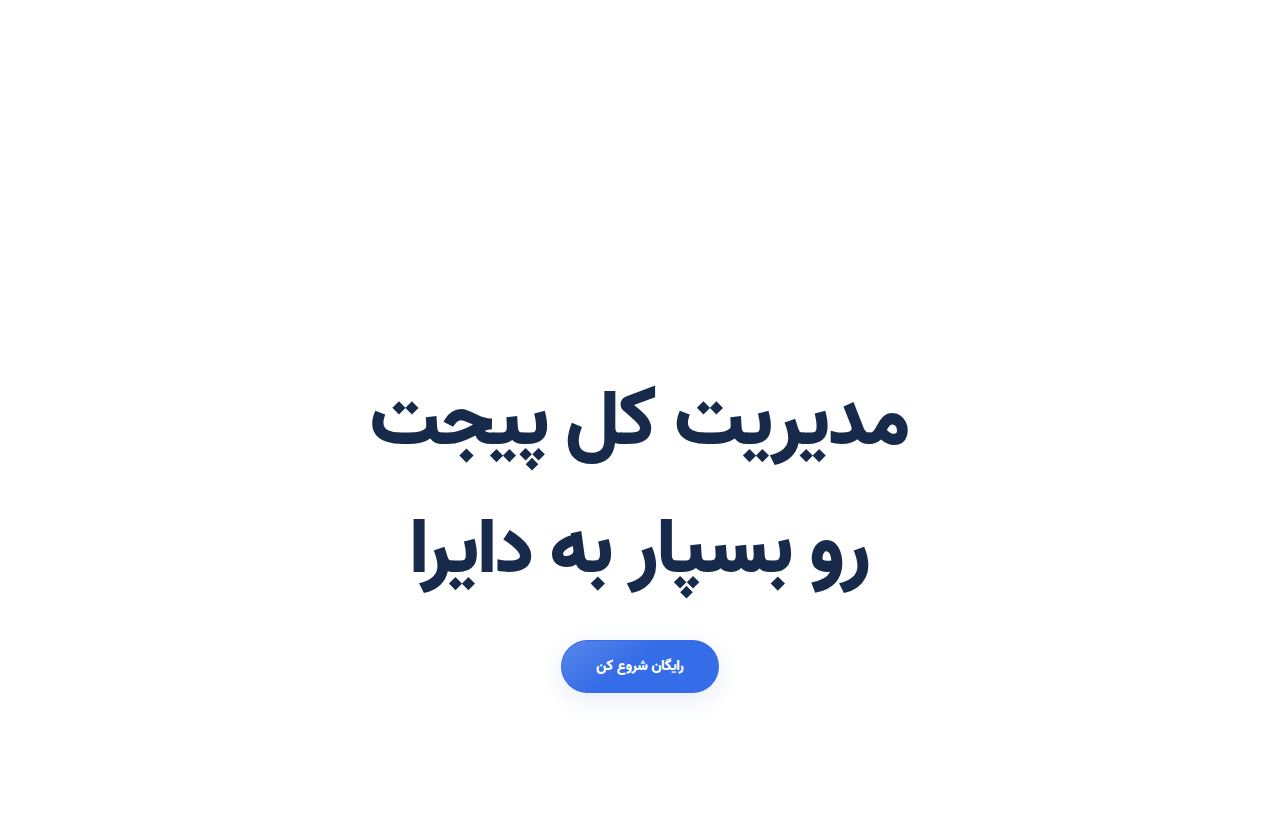
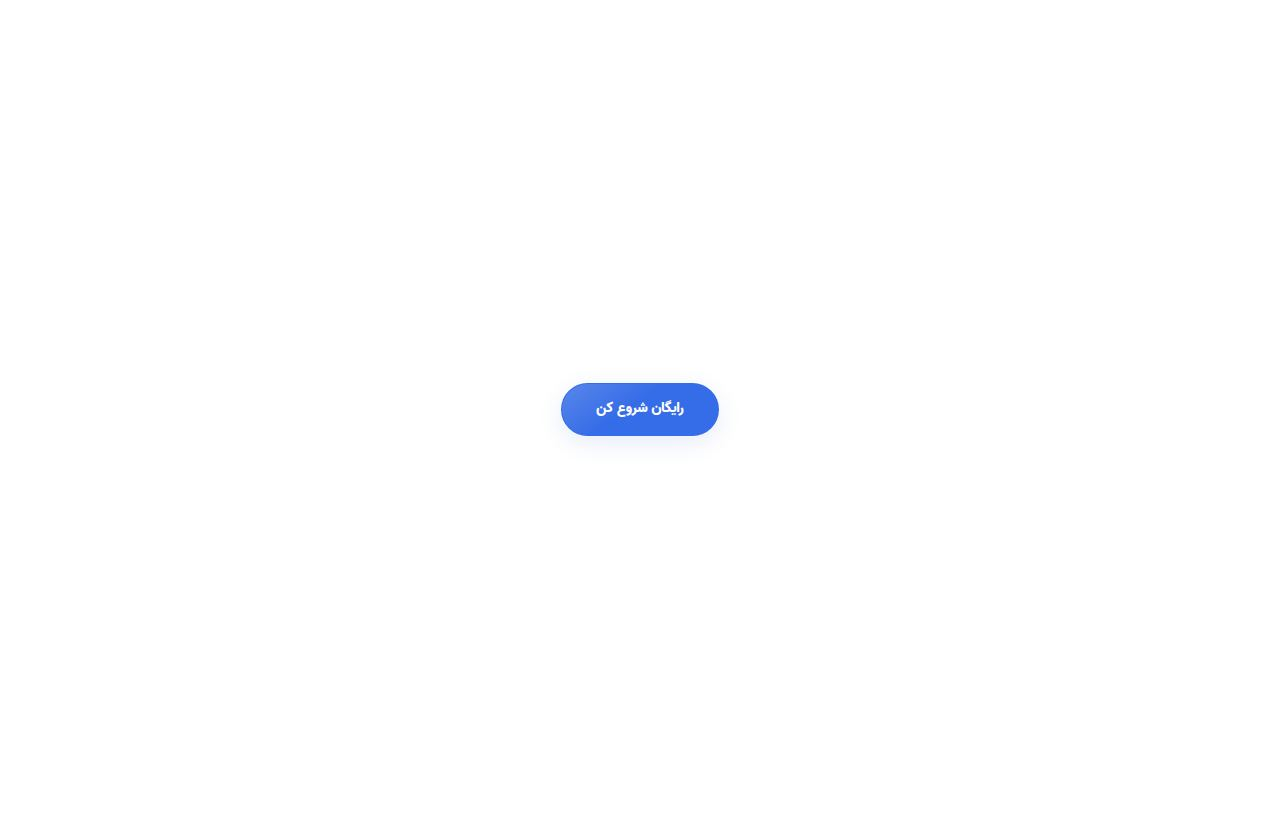
Polish Daira minimal hero placement and quick sequential card animations
* Remove duplicate hidden typewriter layout footprint so hero CTA stays visible

* Stagger the next card after shell entry, avoiding blank cards during fast scrolling

* Verify compact hero has no doubled headline and CTA fits on first viewport

* Regress hero geometry and quick sequential card reveal timing

* Regenerate static header reflection tiles for revised minimal hero positioning

* Regenerate Safari Liquid Glass source imagery for Minimal Motion landing

* Drop one-shot optical refresh workflow after updating corrected hero reflection tiles

---------

Changed region(s): [[0.2812, 0.4551, 0.7188, 0.5765], [0.3125, 0.6371, 0.6875, 0.7282], [0.4375, 0.7585, 0.5625, 0.8495]]

diff --git a/components/landing/LandingInteractions.tsx b/components/landing/LandingInteractions.tsx
@@ -173,7 +173,8 @@ export function LandingInteractions() {
       // before playing the neighbor. Keep the exact original card layout.
       const previous = card.previousElementSibling;
       if (previous?.classList.contains("ap-social-card") &&
-          states.get(previous as HTMLElement) !== "done") return;
+          states.get(previous as HTMLElement) !== "done" &&
+          (previous as HTMLElement).dataset.gsapShellReady !== "true") return;
       states.set(card, "queued");
       card.dataset.gsapPhase = "queued";
       pending.delete(card);
@@ -228,23 +229,37 @@ export function LandingInteractions() {
         // AFTER the card reaches its position. No parallax, blur or looping.
         if (card.classList.contains("dm-card")) {
           timeline.to(card, {
-            x: 0, opacity: 1, duration: .31, ease: "power3.out", force3D: false
+            x: 0, opacity: 1, duration: .27, ease: "power3.out", force3D: false
           }, 0);
+          // Unlock the next visible card when the first shell has arrived,
+          // not after every child fade. This retains sequential entry without
+          // leaving an empty card for a full second while scrolling.
+          timeline.call(() => {
+            card.dataset.gsapShellReady = "true";
+            const next = card.nextElementSibling;
+            if (!(next instanceof HTMLElement) ||
+                !next.classList.contains("dm-card") ||
+                states.get(next) !== "waiting") return;
+            const bounds = next.getBoundingClientRect();
+            if (bounds.bottom > 0 && bounds.top < innerHeight * .88) {
+              requestAnimationFrame(() => startCard(next));
+            }
+          }, [], .22);
           if (preview) {
-            timeline.set(preview, { visibility: "visible" }, .16);
-            timeline.set(visualParts, { opacity: 0 }, .12);
+            timeline.set(preview, { visibility: "visible" }, .10);
+            timeline.set(visualParts, { opacity: 0 }, .09);
             timeline.to(preview, {
-              x: 0, opacity: 1, duration: .25, ease: "power2.out",
+              x: 0, opacity: 1, duration: .20, ease: "power2.out",
               force3D: false
-            }, .16);
-            timeline.to(visualParts, { opacity: 1, duration: .25 }, .19);
+            }, .12);
+            timeline.to(visualParts, { opacity: 1, duration: .19 }, .15);
           }
           if (copyContainer) timeline.to(copyContainer, {
-            x: 0, duration: .31, force3D: false
-          }, .2);
+            x: 0, duration: .24, force3D: false
+          }, .15);
           copyParts.forEach((part, i) => timeline.to(part, {
-            opacity: 1, duration: .22, ease: "power2.out"
-          }, .25 + i * .075));
+            opacity: 1, duration: .17, ease: "power2.out"
+          }, .20 + i * .055));
           return;
         }
 

diff --git a/scripts/test-public-landing.ts b/scripts/test-public-landing.ts
@@ -97,6 +97,12 @@ assert.ok(!features.includes("dv-bento-grid") && !features.includes("dv-faq-list
 assert.ok(page.includes("dm-hero") && page.includes('data-hero-entrance="fade"') &&
  !page.includes("dv-hero__product") && !page.includes("dv-aurora") &&
  !page.includes("<VeloraReveal />"),"Hero must remain slogan and one CTA only");
+assert.ok(minimalCSS.includes(".ap-hero__typewriter::before") &&
+ minimalCSS.includes("content:none!important;display:none!important"),
+ "Minimal hero must remove the duplicate hidden headline layout footprint");
+assert.ok(interactions.includes('card.dataset.gsapShellReady = "true"') &&
+ interactions.includes('}, [], .22);'),
+ "Paired cards need responsive stagger without waiting for all copy");
 assert.ok(minimalCSS.includes(".dm-hero") && minimalCSS.includes(".dm-card") &&
  minimalCSS.includes("@media(prefers-reduced-motion:reduce)"),"Minimal Motion layout and accessibility");
 assert.ok(hero.includes('title.dataset.heroEntrance === "fade"') &&

diff --git a/app/minimal-motion-home.css b/app/minimal-motion-home.css
@@ -23,6 +23,11 @@
   text-shadow:none!important;filter:none!important;transform:none;
 }
 .ap-site .dm-hero .ap-hero__typewriter,
+/* Fade mode has real static text; the old typewriter measuring pseudo-element
+   would duplicate its height and push the CTA below short desktop viewports. */
+.ap-site .dm-hero .ap-hero__typewriter::before{
+  content:none!important;display:none!important;
+}
 .ap-site .dm-hero .ap-hero__typewriter-ink{
   width:100%!important;display:block!important;text-align:center!important;
   max-width:100%!important;color:inherit!important;position:relative!important;
